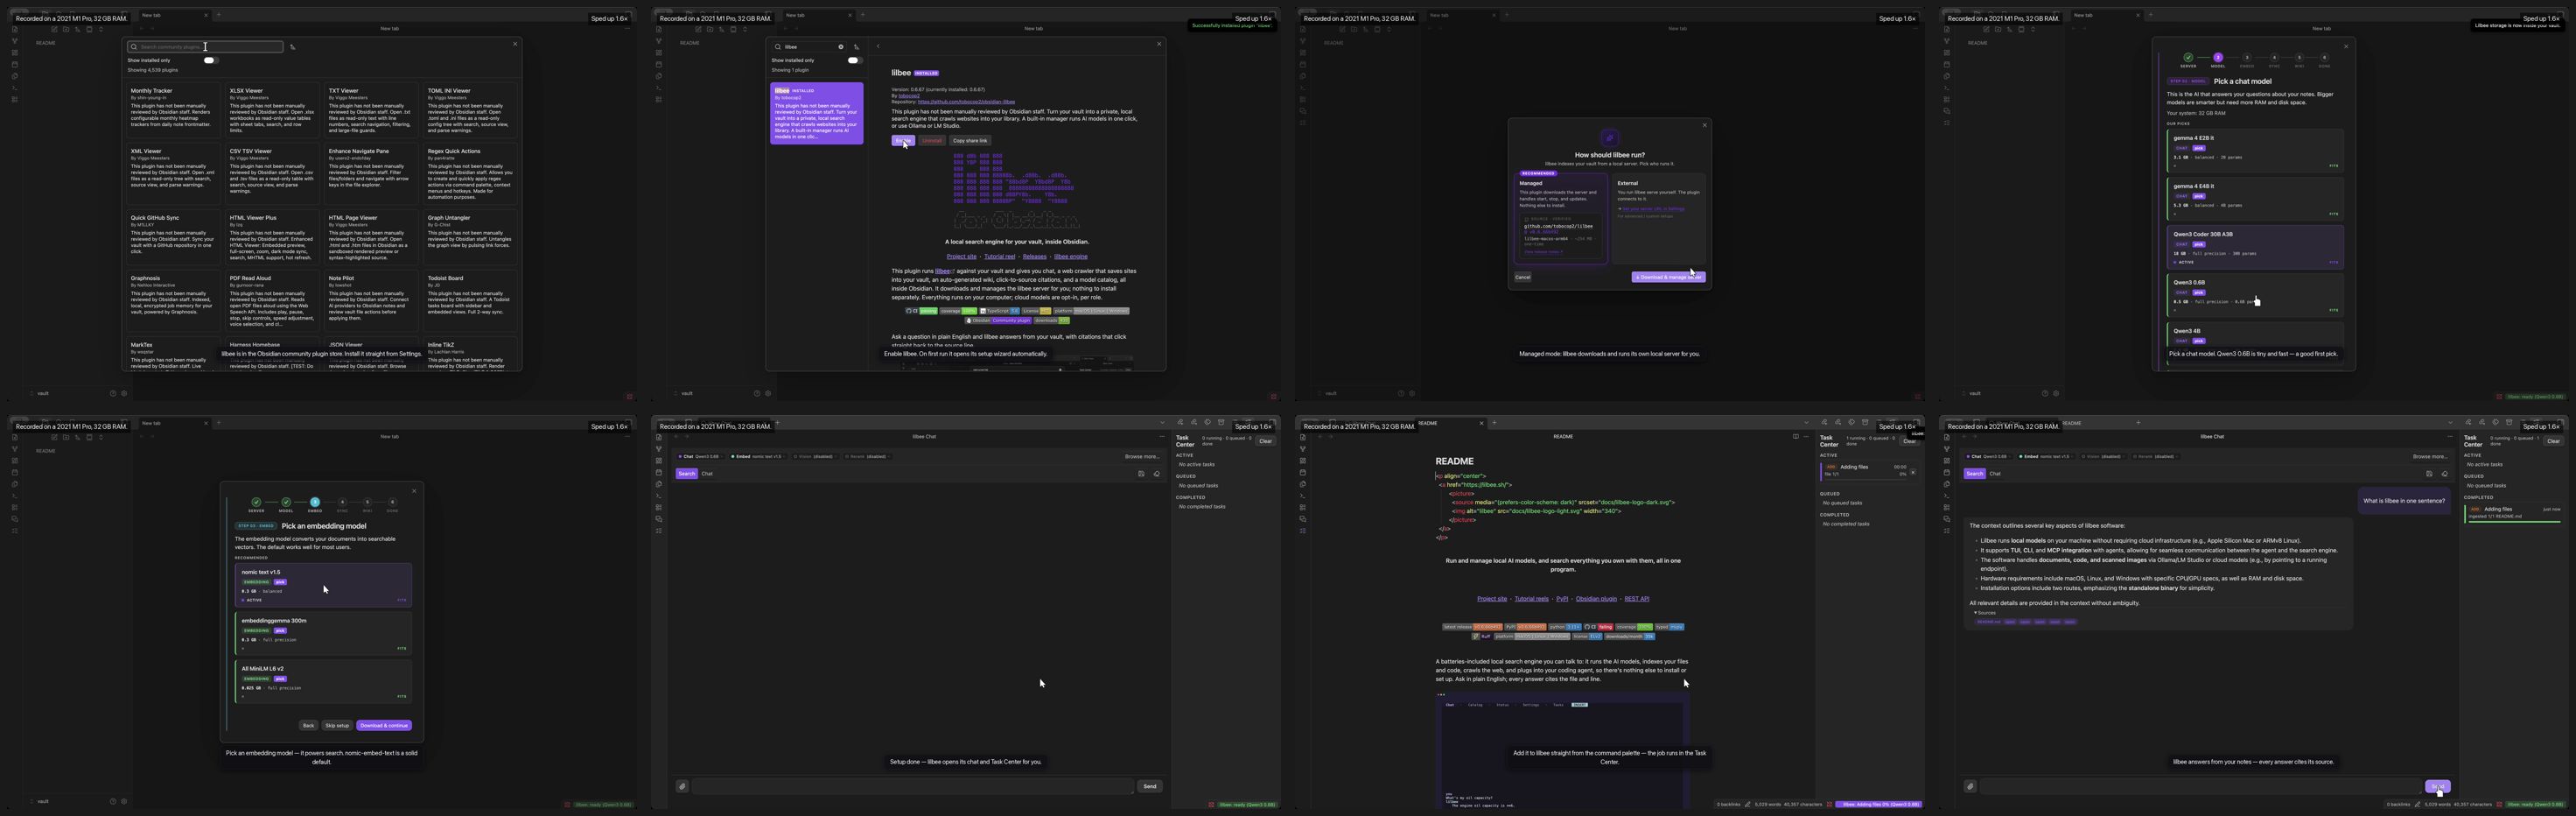
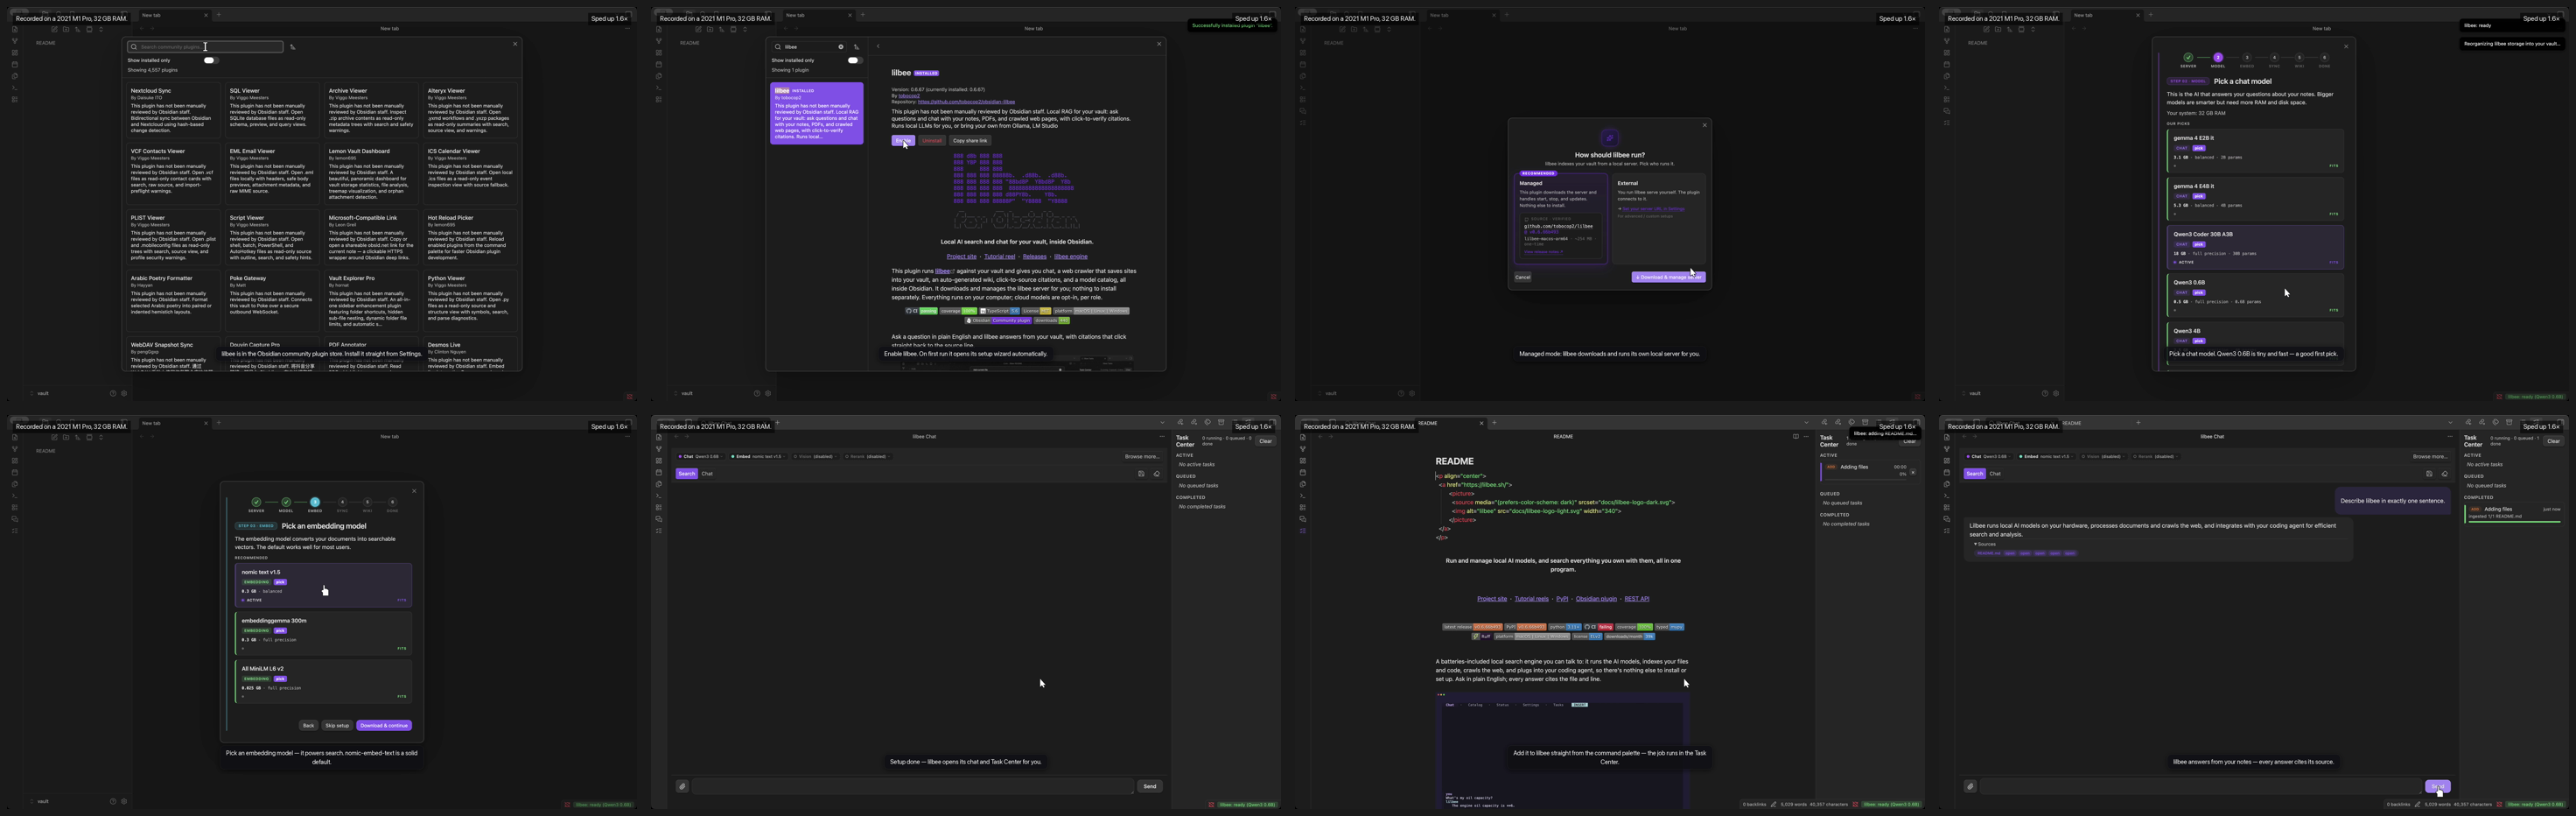
demos: re-record first_start (one-sentence answer + caption placement fix)

diff --git a/demos-src/src/record.ts b/demos-src/src/record.ts
@@ -67,6 +67,8 @@ type BeatRecord = {
   speedup?: number;
   keyHint?: string;
   caption?: string;
+  captionMarginPx?: number;
+  clearCaption?: boolean;
 };
 
 export async function record(storyboard: Storyboard): Promise<void> {
@@ -205,7 +207,7 @@ export async function record(storyboard: Storyboard): Promise<void> {
       const hold = beat.holdMs ?? DEFAULT_HOLD_MS;
       await sleep(hold);
       const endedAt = Date.now() - recordingStartTime;
-      records.push({ index: i, label: beat.label, kind: beat.action.kind, startedAt, endedAt, cursor, speedup: beat.speedup, keyHint: beat.keyHint, caption: beat.caption });
+      records.push({ index: i, label: beat.label, kind: beat.action.kind, startedAt, endedAt, cursor, speedup: beat.speedup, keyHint: beat.keyHint, caption: beat.caption, captionMarginPx: beat.captionMarginPx, clearCaption: beat.clearCaption });
       console.log(`beat ${i} [${beat.label}] ${beat.action.kind}: ${startedAt}-${endedAt} ms${cursor ? ` cursor=(${Math.round(cursor.x)},${Math.round(cursor.y)})` : ""}`);
     }
 
@@ -873,29 +875,42 @@ async function postProcess(opts: PostOptions): Promise<void> {
   }
 
   // Sticky narration captions, overlaid bottom-centre on the app itself. Each
-  // caption shows from its beat's output start until the next captioned beat
-  // (or the end), so a run of sub-step beats shares one explanation w/o flicker.
-  const capStarts = beatCaptions
+  // caption shows from its beat's output start until the next captioned beat,
+  // a clearCaption beat, or the end — so a run of sub-step beats shares one
+  // explanation w/o flicker. A clearCaption beat ends the running caption
+  // without drawing a new one (no clear spot under a full-bleed open note).
+  // Per-beat captionMarginPx lifts an individual caption onto a dead zone;
+  // otherwise the storyboard margin holds.
+  const capPoints = timeline.beats
+    .filter((b) => !!b.caption || b.clearCaption)
     .map((b) => ({
-      text: b.caption as string,
+      text: b.clearCaption ? null : (b.caption as string),
+      margin: b.captionMarginPx ?? captionMargin,
       outStart: inMsToOutSec(Math.max(0, timeline.ffmpegStartupGapMs + b.startedAt - trimStart), segments),
     }))
     .sort((a, b) => a.outStart - b.outStart);
+  // One overlay per distinct caption text (each text has exactly one PNG input,
+  // so it can be consumed by exactly one filter). The margin is taken from the
+  // beat that introduced the text.
   const capWindowsByText = new Map<string, string[]>();
-  for (let i = 0; i < capStarts.length; i++) {
-    const start = capStarts[i].outStart;
-    const end = i + 1 < capStarts.length ? capStarts[i + 1].outStart : 1e6;
-    const expr = `between(t,${start.toFixed(3)},${end.toFixed(3)})`;
-    const arr = capWindowsByText.get(capStarts[i].text) ?? [];
-    arr.push(expr);
-    capWindowsByText.set(capStarts[i].text, arr);
+  const capMarginByText = new Map<string, number>();
+  for (let i = 0; i < capPoints.length; i++) {
+    const pt = capPoints[i];
+    if (pt.text === null) continue; // clear point: only a boundary, draws nothing
+    const start = pt.outStart;
+    const end = i + 1 < capPoints.length ? capPoints[i + 1].outStart : 1e6;
+    const arr = capWindowsByText.get(pt.text) ?? [];
+    arr.push(`between(t,${start.toFixed(3)},${end.toFixed(3)})`);
+    capWindowsByText.set(pt.text, arr);
+    if (!capMarginByText.has(pt.text)) capMarginByText.set(pt.text, pt.margin);
   }
   let capIdx = 0;
   for (const [text, windows] of capWindowsByText) {
     const idx = beatCaptionInputIdx.get(text);
     if (idx === undefined) continue;
+    const margin = capMarginByText.get(text) ?? captionMargin;
     const next = `v_cap${capIdx++}`;
-    chain.push(`[${lastLabel}][${idx}:v]overlay=(W-w)/2:H-h-${captionMargin}:enable='${windows.join("+")}'[${next}]`);
+    chain.push(`[${lastLabel}][${idx}:v]overlay=(W-w)/2:H-h-${margin}:enable='${windows.join("+")}'[${next}]`);
     lastLabel = next;
   }
 

diff --git a/demos-src/tapes/first_start.ts b/demos-src/tapes/first_start.ts
@@ -6,7 +6,7 @@
  *      smallest chat model (Qwen3 0.6B), let the embedding model
  *      download, etc.
  *   3. Add the lilbee README to the corpus via the command palette.
- *   4. Ask a simple question Qwen3 0.6B can answer, watch it stream.
+ *   4. Ask a simple question Qwen3 0.6B can answer in one sentence, watch it stream.
  *
  * Heavy demo: several real downloads (server binary, chat model,
  * embedding model) plus a real chat completion. Speedup keeps the
@@ -28,9 +28,11 @@ import {
 } from "../src/lib.ts";
 
 const SMALL_MODEL_REPO = "Qwen/Qwen3-0.6B-GGUF";
-// One-sentence framing keeps the freshly downloaded small chat model (Qwen3
-// 0.6B) on a task it handles well: a concise, grounded summary off the README.
-const QUESTION = "What is lilbee in one sentence?";
+// "Describe ... in exactly one sentence" is the phrasing that most reliably keeps
+// the tiny Qwen3 0.6B to a single, accurate, grounded sentence off the README
+// (plain "in one sentence" lets it ramble into a bulleted list). Verified across
+// repeated runs against the live model; still confirm the on-camera answer.
+const QUESTION = "Describe lilbee in exactly one sentence.";
 
 // Advance the wizard by mouse-clicking the step's primary CTA. Every
 // wizard step renders exactly one `.lilbee-wizard-actions button.mod-cta`
@@ -508,8 +510,15 @@ export default storyboard("first_start", {
     // down into the body, and linger so the cited passage is the last thing
     // on screen. Park the cursor off the links while it scrolls. The sources
     // block renders a beat after the stream goes idle, so wait for the chip.
-    beat("Wait for the citation chip", waitForSelector(".lilbee-source-chip-loc"), { holdMs: 500 }),
-    beat("Jump to the citation", clickChip(0), { holdMs: 1200, cursorParkTo: [1245, 520], caption: "Click a citation to open the exact source it came from." }),
+    // Caption lands over the chat's empty lower region (the one-sentence answer
+    // leaves it clear) before the note opens, then clears so nothing overlays
+    // the full-bleed README. Verify the dead-zone placement frame-by-frame.
+    beat(
+      "Wait for the citation chip",
+      waitForSelector(".lilbee-source-chip-loc"),
+      { holdMs: 500, caption: "Click a citation to open the exact source it came from." },
+    ),
+    beat("Jump to the citation", clickChip(0), { holdMs: 1200, cursorParkTo: [1245, 520] }),
     beat(
       "Render the cited README and scroll down into the body",
       runJs(`
@@ -526,7 +535,9 @@ export default storyboard("first_start", {
           if (sc) sc.scrollTo({ top: (sc.clientHeight || 700) * 1.1, behavior: 'smooth' });
         }
       `),
-      { holdMs: 2600 },
+      // Clear the citation caption as the README fills the frame — no pill over
+      // the open note's body text.
+      { holdMs: 2600, clearCaption: true },
     ),
     beat("Linger on the cited passage", sleep(2600)),
   ],

diff --git a/demos-src/src/lib.ts b/demos-src/src/lib.ts
@@ -64,8 +64,17 @@ export type Beat = {
   keyHint?: string;
   /** Narration caption shown at the bottom of the frame while this beat
    * plays. Sticky: it stays on screen until the next beat that sets a
-   * caption, so a run of sub-step beats can share one explanation. */
+   * caption (or clears it), so a run of sub-step beats can share one
+   * explanation. */
   caption?: string;
+  /** Bottom margin (retina px) for this beat's caption pill. Overrides the
+   * storyboard margin — lift a caption onto a dead zone when the default
+   * position would sit over content (e.g. an open note). */
+  captionMarginPx?: number;
+  /** End the running sticky caption at this beat without drawing a new one.
+   * Use on beats where a full-bleed view (an open note) leaves no clear spot
+   * for the pill, so nothing overlays the content. */
+  clearCaption?: boolean;
 };
 
 import type { LayoutName } from "./layouts.ts";
@@ -176,6 +185,8 @@ export function beat(
     maxMs?: number;
     keyHint?: string;
     caption?: string;
+    captionMarginPx?: number;
+    clearCaption?: boolean;
   } = {},
 ): Beat {
   return {
@@ -187,6 +198,8 @@ export function beat(
     maxMs: options.maxMs,
     keyHint: options.keyHint,
     caption: options.caption,
+    captionMarginPx: options.captionMarginPx,
+    clearCaption: options.clearCaption,
   };
 }
 